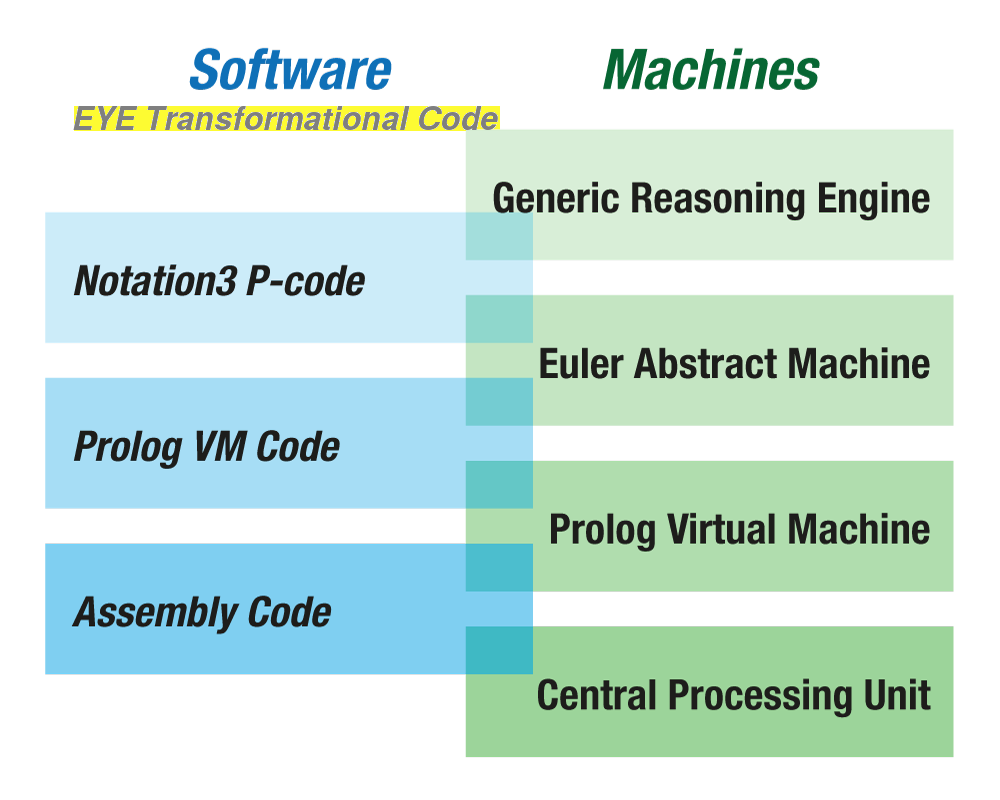
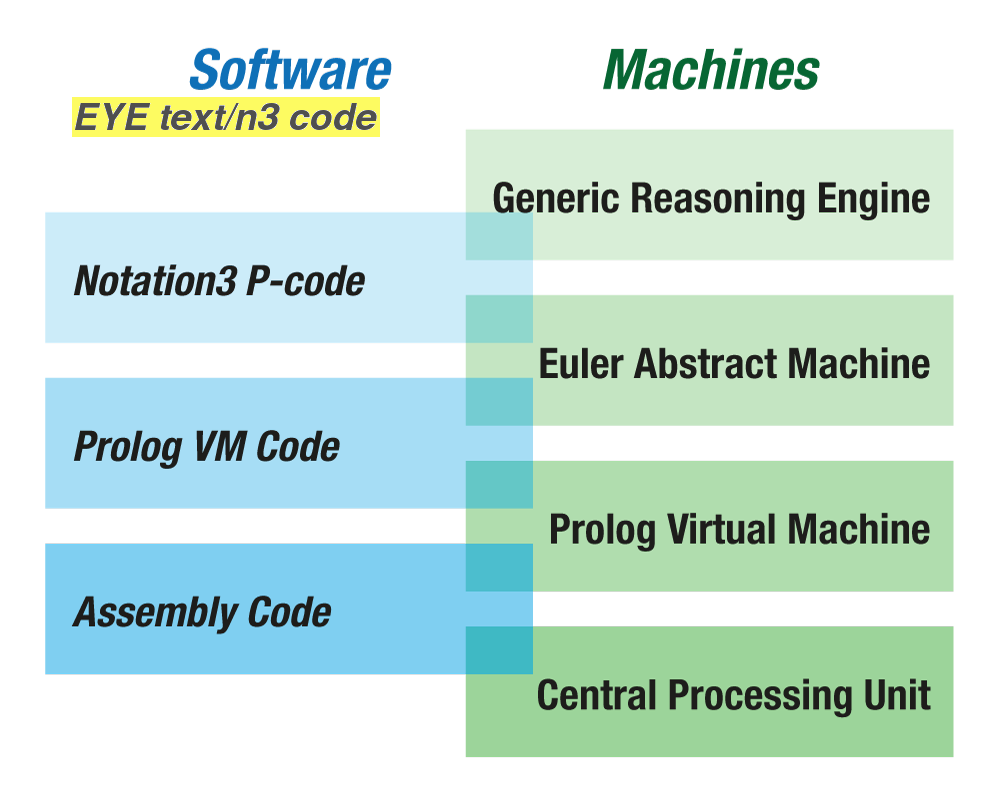
EYE text/n3 code

Changed region(s): [[0.062, 0.0938, 0.496, 0.1875]]

diff --git a/index.html b/index.html
@@ -31,7 +31,7 @@
       <td>
         <a href="http://josd.github.io/rotor.html">Wind rotor mechanisms</a><br/>
         <a href="http://github.com/josd/eye">Euler Yet another proof Engine</a><br/>
-        <a href="http://github.com/josd/etc">EYE Transformational Code</a><br/>
+        <a href="http://github.com/josd/etc">EYE text/n3 code</a><br/>
       </td>
     </tr>
   </tbody>
